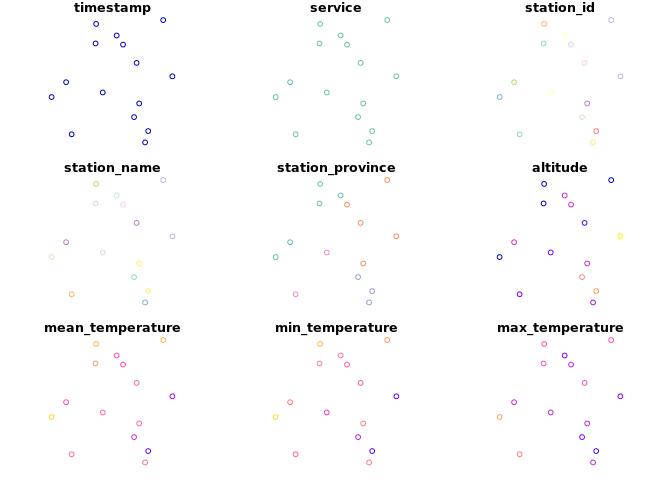
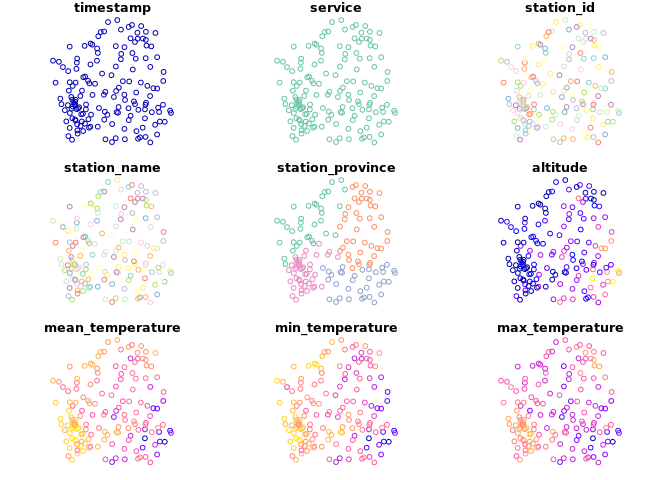
2023-01-17 04:55:24 automatic update

diff --git a/content/software/meteospain/index.md b/content/software/meteospain/index.md
@@ -12,8 +12,8 @@ tags:
 - data
 draft: false
 featured: false
-date: '2022-12-14'
-lastmod: '2022-12-14'
+date: '2023-01-17'
+lastmod: '2023-01-17'
 summary: Access to Spanish Meteorological Stations Services
 model_repository: ''
 data_repository: ''
@@ -81,25 +81,25 @@ get_meteo_from('meteogalicia', mg_options)
 #> Consellería de Medio Ambiente, Territorio e Vivenda da Xunta de Galicia como fonte da mesma cada vez 
 #> que as utilice para os usos distintos do particular e privado.
 #> https://www.meteogalicia.gal/web/informacion/notaIndex.action
-#> Simple feature collection with 3679 features and 14 fields
+#> Simple feature collection with 3695 features and 14 fields
 #> Geometry type: POINT
 #> Dimension:     XY
 #> Bounding box:  xmin: -9.178318 ymin: 41.8982 xmax: -6.765224 ymax: 43.734
 #> Geodetic CRS:  WGS 84
-#> # A tibble: 3,679 × 15
+#> # A tibble: 3,695 × 15
 #>    timestamp           service station_id station_name station_province altitude
 #>    <dttm>              <chr>   <chr>      <chr>        <chr>                 [m]
-#>  1 2022-12-13 04:00:00 meteog… 10045      Mabegondo    A Coruña               94
-#>  2 2022-12-13 04:00:00 meteog… 10046      Marco da Cu… A Coruña              651
-#>  3 2022-12-13 04:00:00 meteog… 10047      Pedro Murias Lugo                   51
-#>  4 2022-12-13 04:00:00 meteog… 10048      O Invernade… Ourense              1026
-#>  5 2022-12-13 04:00:00 meteog… 10049      Corrubedo    A Coruña               30
-#>  6 2022-12-13 04:00:00 meteog… 10050      CIS Ferrol   A Coruña               37
-#>  7 2022-12-13 04:00:00 meteog… 10052      Muralla      A Coruña              661
-#>  8 2022-12-13 04:00:00 meteog… 10053      Campus Lugo  Lugo                  400
-#>  9 2022-12-13 04:00:00 meteog… 10055      Guitiriz-Mi… Lugo                  684
-#> 10 2022-12-13 04:00:00 meteog… 10056      Marroxo      Lugo                  645
-#> # … with 3,669 more rows, and 9 more variables: temperature [°C],
+#>  1 2023-01-16 04:00:00 meteog… 10045      Mabegondo    A Coruña               94
+#>  2 2023-01-16 04:00:00 meteog… 10046      Marco da Cu… A Coruña              651
+#>  3 2023-01-16 04:00:00 meteog… 10047      Pedro Murias Lugo                   51
+#>  4 2023-01-16 04:00:00 meteog… 10048      O Invernade… Ourense              1026
+#>  5 2023-01-16 04:00:00 meteog… 10049      Corrubedo    A Coruña               30
+#>  6 2023-01-16 04:00:00 meteog… 10050      CIS Ferrol   A Coruña               37
+#>  7 2023-01-16 04:00:00 meteog… 10052      Muralla      A Coruña              661
+#>  8 2023-01-16 04:00:00 meteog… 10053      Campus Lugo  Lugo                  400
+#>  9 2023-01-16 04:00:00 meteog… 10055      Guitiriz-Mi… Lugo                  684
+#> 10 2023-01-16 04:00:00 meteog… 10056      Marroxo      Lugo                  645
+#> # … with 3,685 more rows, and 9 more variables: temperature [°C],
 #> #   min_temperature [°C], max_temperature [°C], relative_humidity [%],
 #> #   precipitation [L/m^2], wind_direction [°], wind_speed [m/s],
 #> #   insolation [h], geometry <POINT [°]>
@@ -109,12 +109,12 @@ Stations info can be accessed with `get_stations_info_from` function:
 
 ``` {.r}
 get_stations_info_from('meteogalicia', mg_options)
-#> Simple feature collection with 155 features and 5 fields
+#> Simple feature collection with 157 features and 5 fields
 #> Geometry type: POINT
 #> Dimension:     XY
-#> Bounding box:  xmin: -9.178318 ymin: 41.8982 xmax: -6.765224 ymax: 43.734
+#> Bounding box:  xmin: -9.178318 ymin: 41.8982 xmax: -6.765224 ymax: 43.7383
 #> Geodetic CRS:  WGS 84
-#> # A tibble: 155 × 6
+#> # A tibble: 157 × 6
 #>    service      station_id station_name             station_province altitude
 #>  * <chr>        <chr>      <chr>                    <chr>                 [m]
 #>  1 meteogalicia 10157      Coruña-Torre de Hércules A Coruña               21
@@ -127,7 +127,7 @@ get_stations_info_from('meteogalicia', mg_options)
 #>  8 meteogalicia 10095      Sergude                  A Coruña              231
 #>  9 meteogalicia 10800      Camariñas                A Coruña                5
 #> 10 meteogalicia 19001      Rus                      A Coruña              134
-#> # … with 145 more rows, and 1 more variable: geometry <POINT [°]>
+#> # … with 147 more rows, and 1 more variable: geometry <POINT [°]>
 ```
 
 Returned objects are spatial objects (using the
@@ -136,7 +136,10 @@ plotted directly:
 
 ``` {.r}
 library(sf)
-#> Linking to GEOS 3.9.0, GDAL 3.2.1, PROJ 7.2.1
+#> Linking to GEOS 3.9.1, GDAL 3.2.1, PROJ 7.2.1; sf_use_s2() is TRUE
+#> WARNING: different compile-time and runtime versions for GEOS found:
+#> Linked against: 3.9.1-CAPI-1.14.2 compiled against: 3.9.0-CAPI-1.16.2
+#> It is probably a good idea to reinstall sf, and maybe rgeos and rgdal too
 mg_options <- meteogalicia_options(resolution = 'daily', start_date = as.Date('2021-04-25'))
 plot(get_meteo_from('meteogalicia', mg_options))
 #> A información divulgada a través deste servidor ofrécese gratuitamente aos cidadáns para que poida ser 
